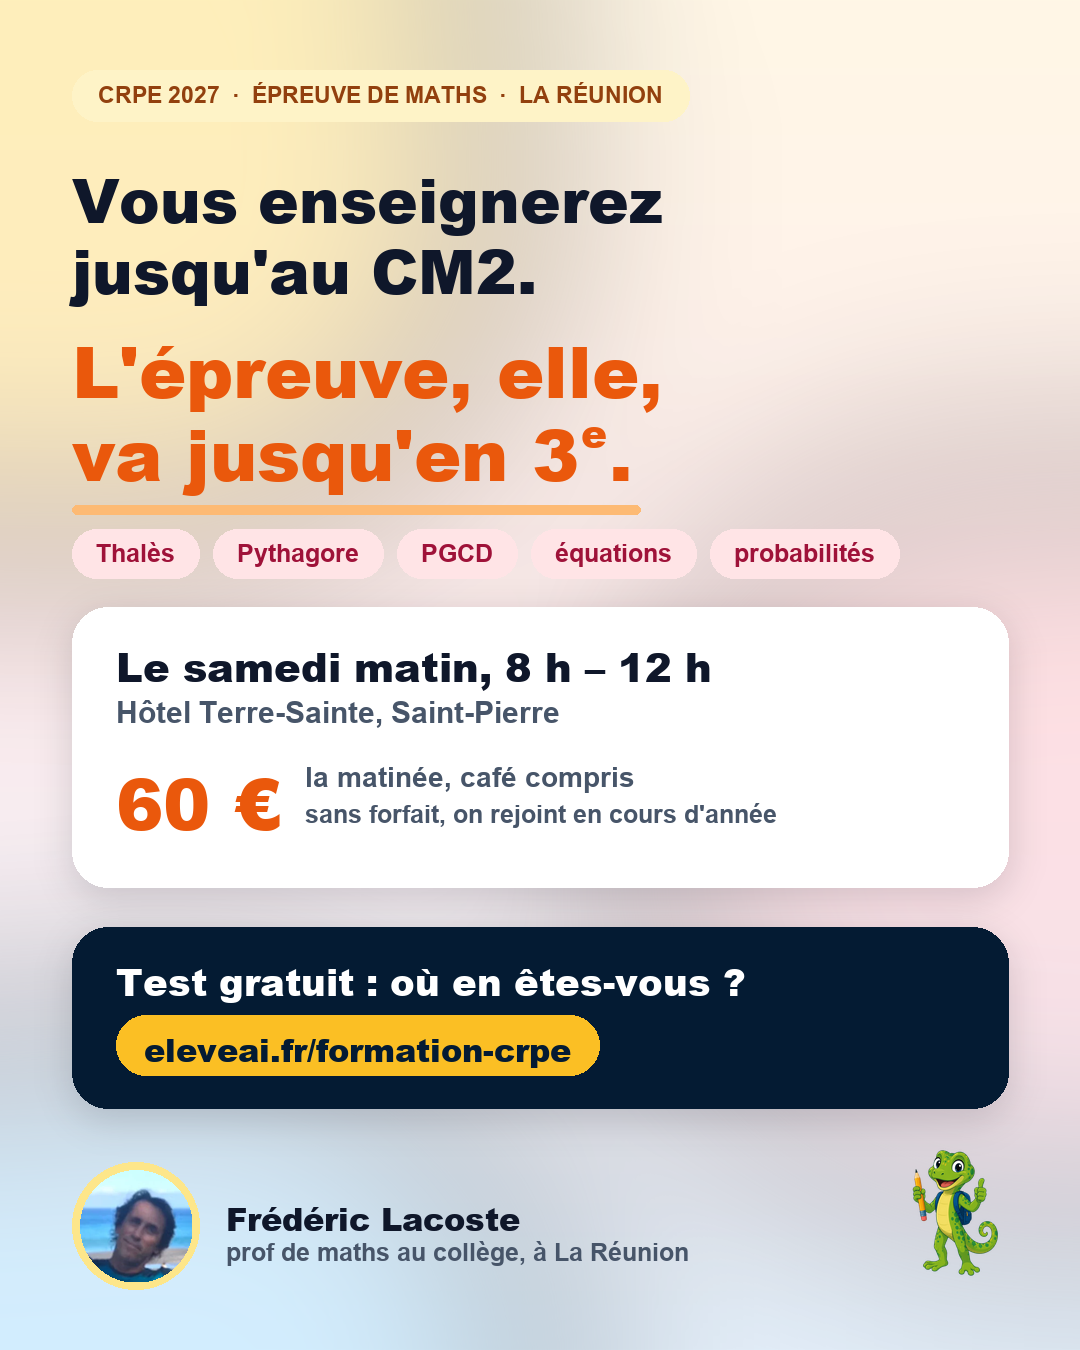
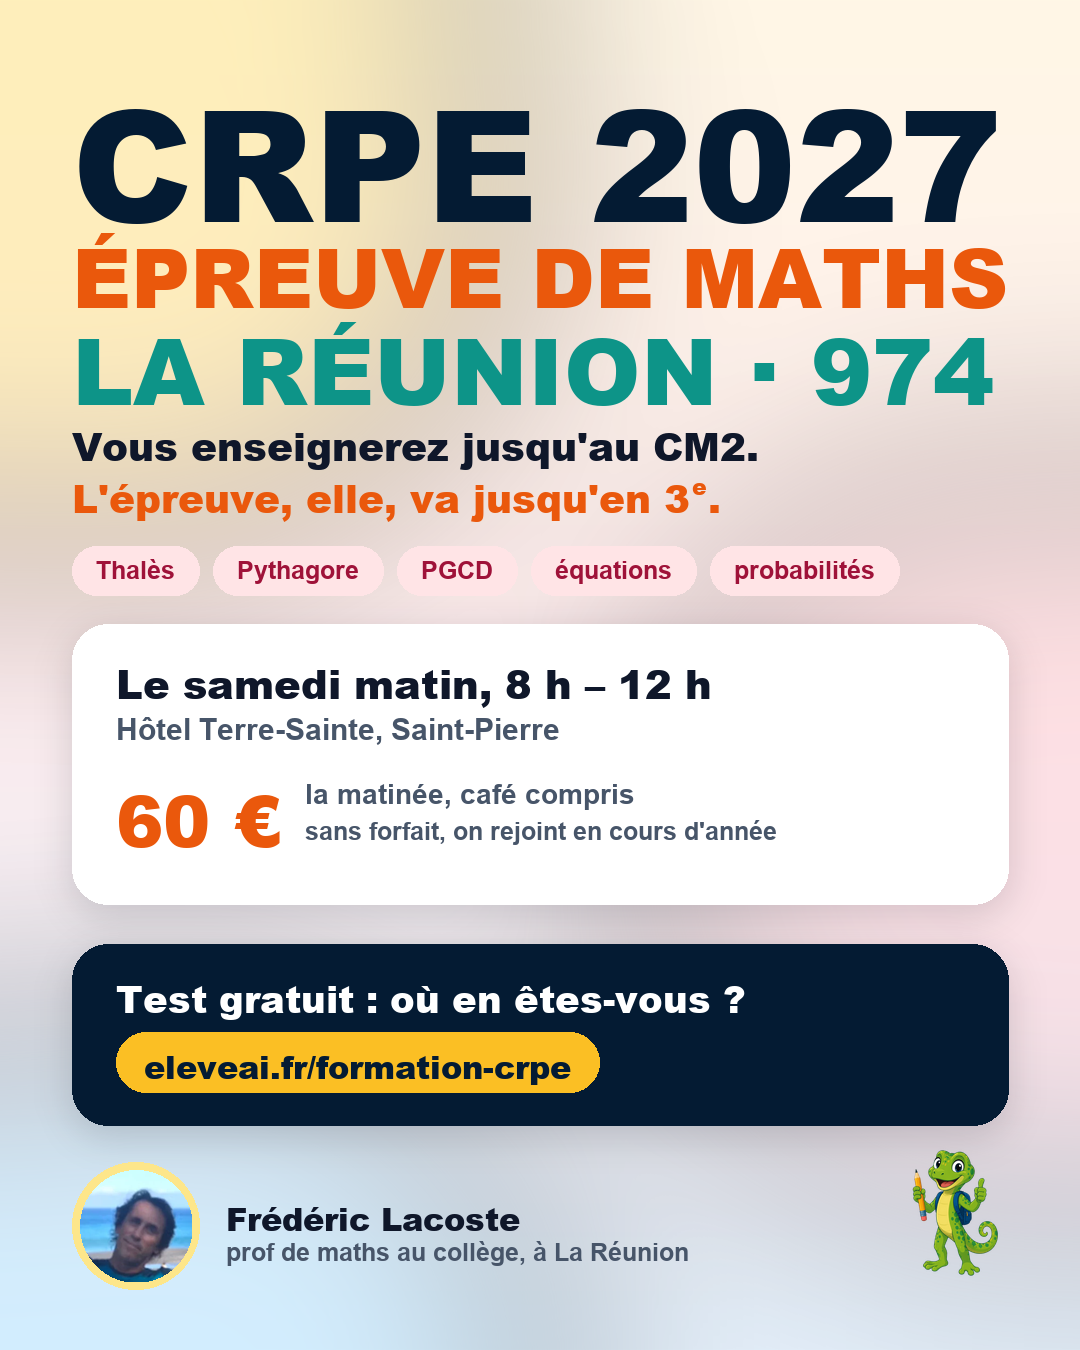
Pub Instagram CRPE : « CRPE 2027 / epreuve de maths / La Reunion » en titre geant

Changed region(s): [[0.0611, 0.0311, 0.9472, 0.84]]

diff --git a/scripts/pub-crpe-instagram.py b/scripts/pub-crpe-instagram.py
@@ -108,27 +108,36 @@ def composer(h):
     # champ de réponse) : rien d'important n'y va.
     y = 250 if story else 70
 
-    # ── Le bandeau
-    pilule(d, marge, y, "CRPE 2027  ·  ÉPREUVE DE MATHS  ·  LA RÉUNION", GRAS(k(28)),
-           (254, 243, 199), (146, 64, 14))
-    y += k(100)
+    # ── Le titre : « CRPE · épreuve de maths · La Réunion » EN PLUS GROS
+    # (Frédéric, 15/10 : « mets le plus gros »). C'est ce qu'on lit en un quart
+    # de seconde en faisant défiler : le concours, la matière, l'île. Chaque
+    # ligne prend toute la largeur utile.
+    def ajuste(texte, maxi):
+        t = maxi
+        while largeur(d, texte, NOIR(t)) > W - 2 * marge:
+            t -= 2
+        return NOIR(t)
 
-    # ── L'accroche
-    d.text((marge, y), "Vous enseignerez", font=NOIR(k(72)), fill=ENCRE)
-    y += k(84)
-    d.text((marge, y), "jusqu'au CM2.", font=NOIR(k(72)), fill=ENCRE)
-    y += k(110)
-    d.text((marge, y), "L'épreuve, elle,", font=NOIR(k(84)), fill=ORANGE)
-    y += k(98)
-    t = "va jusqu'en 3e."
-    d.text((marge, y), "va jusqu'en 3", font=NOIR(k(84)), fill=ORANGE)
-    x3 = marge + largeur(d, "va jusqu'en 3", NOIR(k(84)))
-    d.text((x3 + 2, y + k(4)), "e", font=NOIR(k(46)), fill=ORANGE)
-    d.text((x3 + 4 + largeur(d, "e", NOIR(k(46))), y), ".", font=NOIR(k(84)), fill=ORANGE)
-    # le trait épais sous la ligne, comme le titre de la page
-    d.rounded_rectangle((marge, y + k(122), marge + largeur(d, t, NOIR(k(84))) - 10, y + k(132)),
-                        radius=6, fill=ORANGE_CLAIR)
-    y += k(150)
+    f1 = ajuste("CRPE 2027", k(190))
+    d.text((marge, y - f1.size * 0.12), "CRPE 2027", font=f1, fill=NAVY)
+    y += int(f1.size * 0.95)
+    f2 = ajuste("ÉPREUVE DE MATHS", k(120))
+    d.text((marge, y), "ÉPREUVE DE MATHS", font=f2, fill=ORANGE)
+    y += int(f2.size * 1.05)
+    f3 = ajuste("LA RÉUNION · 974", k(120))
+    d.text((marge, y), "LA RÉUNION · 974", font=f3, fill=(13, 148, 136))
+    y += int(f3.size * 1.25)
+
+    # ── L'accroche, désormais en second
+    d.text((marge, y), "Vous enseignerez jusqu'au CM2.", font=NOIR(k(46)), fill=ENCRE)
+    y += k(62)
+    t = "L'épreuve, elle, va jusqu'en 3e."
+    debut = "L'épreuve, elle, va jusqu'en 3"
+    d.text((marge, y), debut, font=NOIR(k(46)), fill=ORANGE)
+    x3 = marge + largeur(d, debut, NOIR(k(46)))
+    d.text((x3 + 2, y), "e", font=NOIR(k(26)), fill=ORANGE)
+    d.text((x3 + 3 + largeur(d, "e", NOIR(k(26))), y), ".", font=NOIR(k(46)), fill=ORANGE)
+    y += k(90)
 
     # ── Les notions de collège qui tombent
     x = marge
